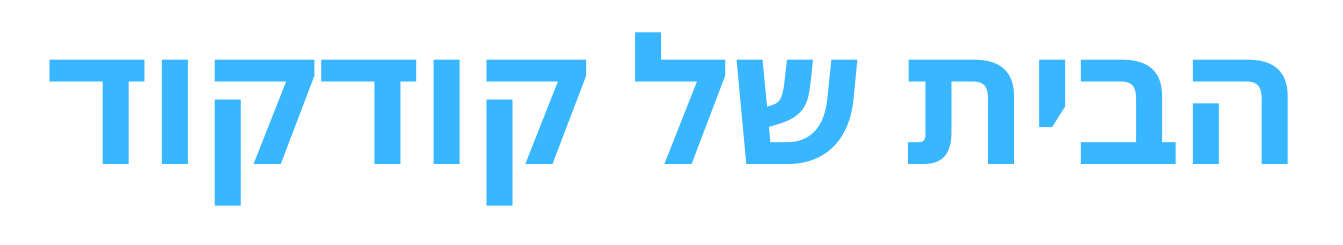
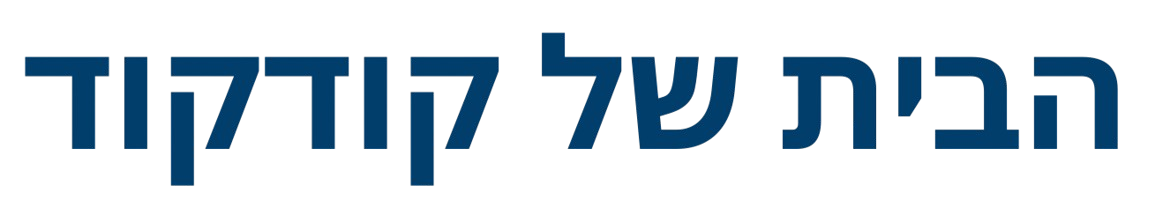
Day2 - 18:00

Changed region(s): [[0.4675, 0.1111, 0.9662, 0.6944], [0.0, 0.2222, 0.4364, 0.8611]]

diff --git a/frontend/src/components/application-layout/LogoLink.tsx b/frontend/src/components/application-layout/LogoLink.tsx
@@ -4,8 +4,8 @@ export default function LogoLink() {
       className="logo-linkodkod"
       alt="logo"
       src="img/logo-kodkod.jpg"
-      width={80}
-      height={80}
+      width={85}
+      height={85}
     ></img>
   );
 }

diff --git a/frontend/src/components/application-layout/Slogan.tsx b/frontend/src/components/application-layout/Slogan.tsx
@@ -3,7 +3,7 @@ export default function Slogan() {
     <img
       className="slogan"
       alt="slogan"
-      src="img/slogan.png"
+      src="img/slogan-1.png"
       width={85}
       height={20}
     ></img>

diff --git a/frontend/src/css/PostCard.css b/frontend/src/css/PostCard.css
@@ -4,6 +4,7 @@
   flex-direction: row;
   gap: 50px;
   border: 1px solid #e9e9e9;
+  color: #013e6c;
   border-radius: 10px;
   padding: 30px;
   width: 500px;
